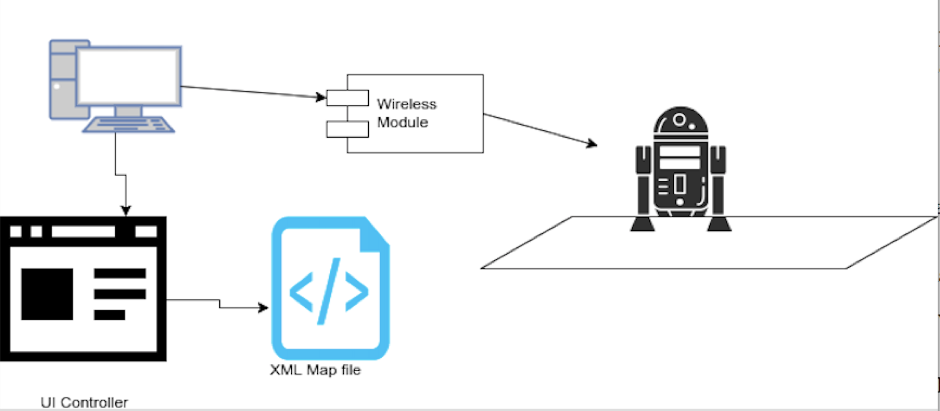
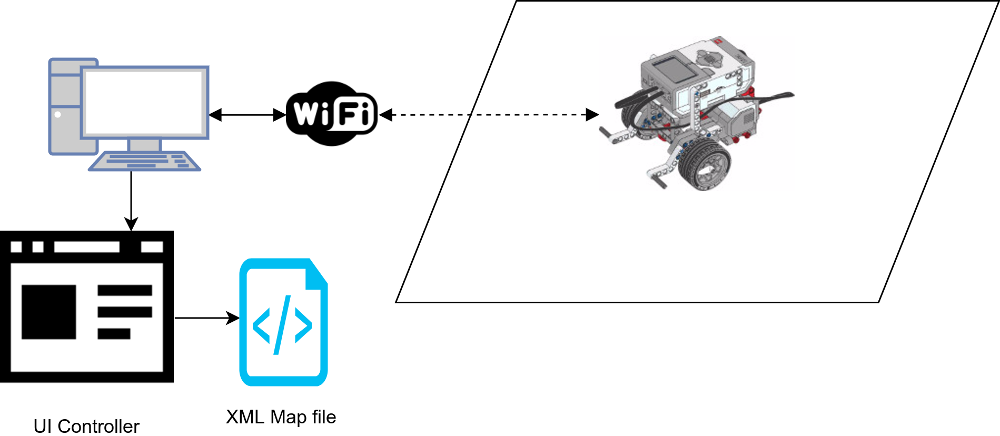
SRS first draft

diff --git a/Documentation/SRS/SRS.tex b/Documentation/SRS/SRS.tex
@@ -13,6 +13,7 @@
 
 \setlist[itemize]{noitemsep} % No spaces in itemize lists
 \setlist[enumerate]{noitemsep} % No spaces in itemize lists
+\setlist[description]{noitemsep} % No spaces in itemize lists
 \titlespacing*{\subsubsection}{0pt}{8pt}{2pt}
 \titlespacing*{\paragraph}{0pt}{3pt}{5pt}
 
@@ -29,7 +30,9 @@
 			\vspace{20pt}
 			\fontsize{20}{12}\selectfont{\textsc{Software Requirements Specification}}\\
 			\vspace{10pt}
-			\large{Software Engineering \& Project}
+			\large{Software Engineering \& Project} \\
+			\vspace{20pt}
+			\includegraphics[width=200px]{title-page-ev3.png}					
 		}
 		\date{20/08/2017}
 		\author{
@@ -51,13 +54,27 @@
 	
 	\section{Introduction}
 	\subsection{Purpose}
-	This report is to describe the software requirements specification of the lunar rover project.
+	This report is to describe the software requirements specification of the lunar rover project. The lunar rover project involves building a prototype rover capable of surveying a designated area automatically. The project is to be completed in semester 2 2017.
 	
 	\subsection{Document Conventions}
-	The document conventions in this project include the following main points....
+	This document contains a series of user requirements. These requirements have been broken down into categories and given a priority based on the sequence they are stated, the first being the most important feature.
+	\paragraph{}
+	Acronyms are also prevalent in the document. These mainly consist of computer technology acronyms such as:
+	\begin{description}[align=right,labelwidth=3cm]
+		\item [App] Application
+		\item [GUI] Graphical User Interface
+		\item [SRS] Software Requirements Specification 
+		\item [....]
+	\end{description}
 	
 	\subsection{Intended Audience and Reading Suggestions}
-	The intended audience of this document are the Client, this project team and project supervisor.
+	The intended audience of this document are the Client, this project team and project supervisor. Reading suggestions for this document are:
+	\begin{itemize}
+		\item Client Specification
+		\item Project Specification
+		\item LEGO\cpright Mindstorms EV3 kit overview
+		\item LeJOS EV3 Java Library overview
+	\end{itemize}
 	
 	\subsection{Project Scope}
 	\paragraph{}
@@ -72,10 +89,12 @@
 	
 	\section{Overall Description}
 	\subsection{Product Perspective}
-	The product described in this SRS is the new self-contained project. It relies on the existing LEGO\cpright. robot that is built by all LEGO\cpright bricks. Previously, robot cannot be controlled by human being with software no matter whether manually or automatically. This SRS defines the component of the robot system and the following diagram is identifying the functionalities and interfaces of this system.
+	The product described in this SRS is a self-contained project. It relies on the existing LEGO\cpright Mindstorms robot, supplied by the client. Previously, the robot cannot be controlled by a human being with software no matter whether manually or automatically. This SRS defines the component of the robot system and the following diagram is identifying the functionalities and interfaces of this system.
 	
 	\begin{figure}[H]
-		\includegraphics[width=\linewidth]{Robot_system.png}  
+		\includegraphics[width=\linewidth]{Robot_system.png}  % created using www.draw.io
+		\caption{High level system overview}
+		\label{fig:system overview}				
 	\end{figure}
 	
 	\subsection{Product Features}
@@ -295,13 +314,13 @@
 	This feature designated to allow operator manual control robot. It also has function to switch between manual/autonomous control and emergency stop.
 	
 	\subsubsection*{Stimulus}
-	\begin{itemize}
-		\item Step 1: Open MJ Control application.
-		\item Step 2: Enter username/password.
-		\item Step 3: Use navigation button on UI to control robot.
-		\item Step 4: Switch between Autonomous/Manual control by turn on/off “Autonomous Control” toggle button.
-		\item Step 5: Emergency stop robot by click “Emergency Stop” button
-	\end{itemize}
+	\begin{enumerate}
+		\item Open MJ Control application.
+		\item Enter username/password.
+		\item Use navigation button on UI to control robot.
+		\item Switch between Autonomous/Manual control by turn on/off “Autonomous Control” toggle button.
+		\item Emergency stop robot by click “Emergency Stop” button
+	\end{enumerate}
 	
 	\subsubsection*{Response}
 	\begin{itemize}
@@ -347,10 +366,10 @@
 	\text This feature is designed to prevent un-authorised persons from accessing control of the robot.
 	
 	\subsubsection*{Stimulus}
-	\begin{itemize}
-		\item Step 1: Open MJ Control application.
-		\item Step 2: Enter username/password.
-	\end{itemize}
+	\begin{enumerate}
+		\item Open MJ Control application.
+		\item Enter username/password.
+	\end{enumerate}
 	
 	\subsubsection*{Response}
 	\begin{itemize}
